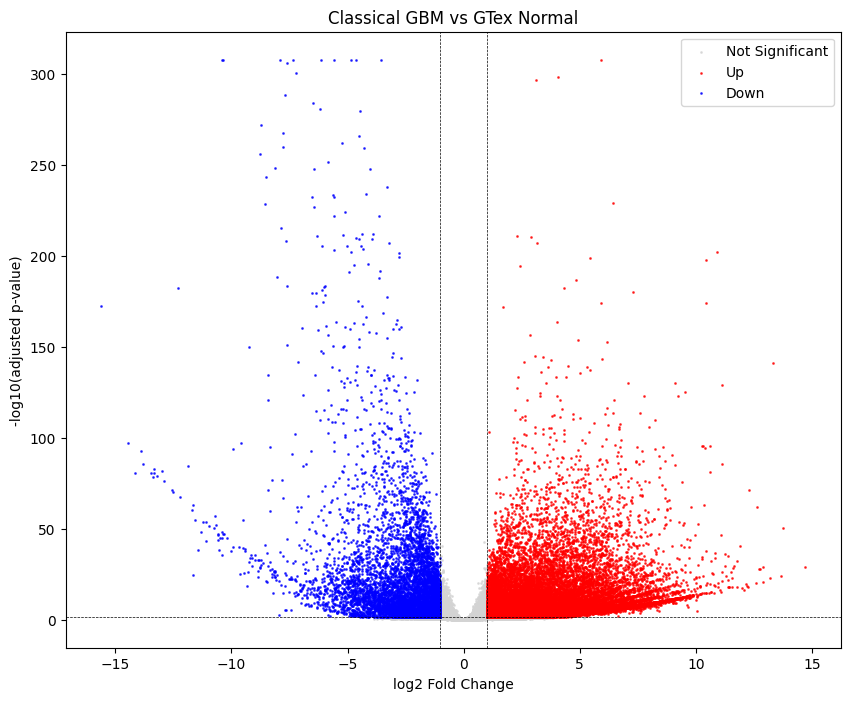
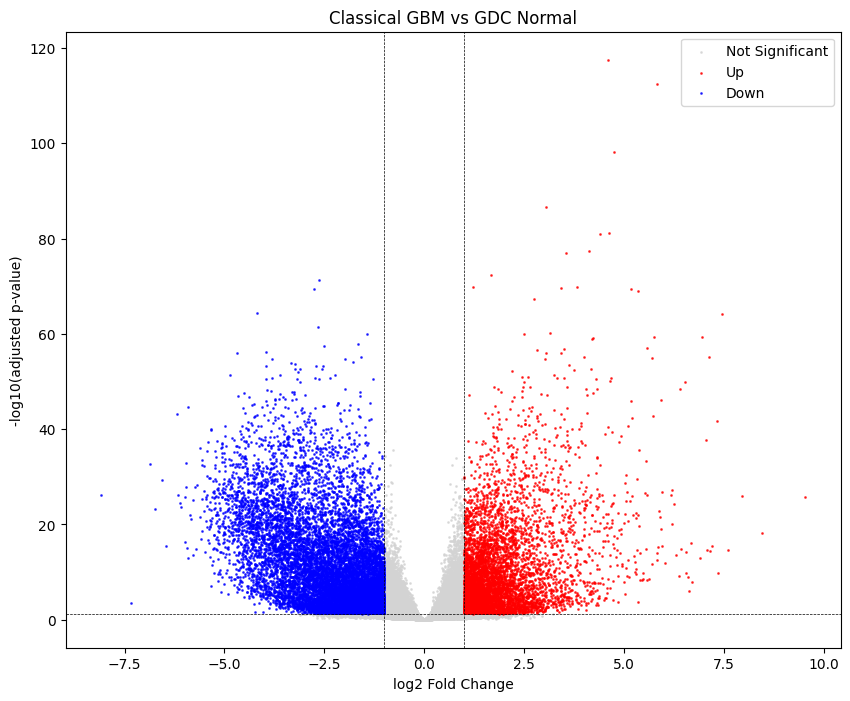
change color palette

diff --git a/index.html b/index.html
@@ -354,6 +354,44 @@
 
                 </div>
 
+                <!-- Description -->
+
+                <div class="experience-description">
+
+                    <p>
+                        Computational analysis of large-scale brain cancer (glioblastoma) transcriptomic
+                        data using Python, statistical methods, and reproducible data-analysis
+                        workflows. Currently investigating into associations between programmed cell deaths and 
+                        OXPHOS complexes in glioblastoma
+                    </p>
+
+                    <p>
+                        My work involves processing and standardizing large-scale
+                        gene-expression datasets, differential expression analysis,
+                        and downstream pathway and protein-interaction analysis.
+                        I prioritize a modular Python workflow to make the analysis
+                        reproducible and allow different datasets and analysis
+                        methods to be integrated more easily.
+                    </p>
+
+                    <p class="experience-stats">
+                        <b>99 CPTAC GBM samples</b> ·
+                        <b>10 GTEx controls</b> ·
+                        <b>55,000+ genes</b> ·
+                        <b>28,000+ significant DEGs</b>
+                    </p>
+
+                    <p>
+                        <a
+                            href="https://github.com/namtu06/BIO_RA"
+                            class="project-link"
+                        >
+                            Research Project GitHub repo
+                        </a>
+                    </p>
+
+                </div>
+
                 <!-- Visuals: 6 FIGURE COLLAGE -->
 
                 <div class="experience-collage">
@@ -395,7 +433,7 @@
                     <figure class="collage-network">
 
                         <img
-                            src="images/experience/classical_network.svg"
+                            src="images/experience/classical_network.png"
                             alt="Protein interaction network"
                         >
 
@@ -427,7 +465,7 @@
                     <figure class="collage-heatmap">
 
                         <img
-                            src="images/experience/heatmap.png"
+                            src="images/experience/output.png"
                             alt="Gene expression heatmap"
                         >
 
@@ -473,43 +511,6 @@
 
         </section>
 
-                <!-- Description -->
-
-                <div class="experience-description">
-
-                    <p>
-                        Computational analysis of large-scale brain cancer (glioblastoma) transcriptomic
-                        data using Python, statistical methods, and reproducible data-analysis
-                        workflows. Currently investigating into associations between programmed cell deaths and 
-                        OXPHOS complexes in glioblastoma
-                    </p>
-
-                    <p>
-                        My work involves processing and standardizing large-scale
-                        gene-expression datasets, differential expression analysis,
-                        and downstream pathway and protein-interaction analysis.
-                        I prioritize a modular Python workflow to make the analysis
-                        reproducible and allow different datasets and analysis
-                        methods to be integrated more easily.
-                    </p>
-
-                    <p class="experience-stats">
-                        <b>99 CPTAC GBM samples</b> ·
-                        <b>10 GTEx controls</b> ·
-                        <b>55,000+ genes</b> ·
-                        <b>28,000+ significant DEGs</b>
-                    </p>
-
-                    <p>
-                        <a
-                            href="https://github.com/namtu06/BIO_RA"
-                            class="project-link"
-                        >
-                            Research Project GitHub repo
-                        </a>
-                    </p>
-
-                </div>
         <!-- PROJECTS -->
 
         <section id="projects" class="section projects-section">

diff --git a/style.css b/style.css
@@ -3,14 +3,15 @@
 ======================================== */
 
 :root {
-    --bg: #202321;
-    --text: #EAE5D9;
-    --accent: #B49A65;
-    --muted: #A5AAA1;
-    --muted-subtle: #788078;
-    --border: #414742;
-    --surface: #292E2A;
-    --surface-hover: #343A35;
+    --bg: #1c1c1d;
+    --text: #e6e6e6;
+    --accent: #2698ba;
+    --hover-text: #ffffff;
+    --muted: #b8b5b5;
+    --muted-subtle: #828282;
+    --border: #424246;
+    --surface: #212529;
+    --surface-hover: #2698ba;
 }
 
 
@@ -152,8 +153,8 @@ h1 {
 
 .links a:hover,
 .project-link:hover {
-    color: var(--muted);
-    border-color: var(--muted);
+    color: var(--hover-text);
+    border-color: var(--accent);
 }
 
 
@@ -338,7 +339,12 @@ h2 {
 ======================================== */
 
 .experience-item {
-    padding: 10px 0 0;
+    padding: 10px 0 35px;
+}
+
+.experience-item + .experience-item {
+    border-top: 1px solid var(--border);
+    padding-top: 35px;
 }
 
 
@@ -351,7 +357,7 @@ h2 {
 
     gap: 30px;
 
-    margin-bottom: 20px;
+    margin-bottom: 25px;
 }
 
 
@@ -385,7 +391,7 @@ h2 {
 
 .copy-section-link:hover {
     background: var(--surface-hover);
-    color: var(--muted);
+    color: var(--hover-text);
     transform: scale(1.1);
 }
 
@@ -434,6 +440,7 @@ h2 {
 
 
 .experience-description p {
+    margin-top: 0;
     margin-bottom: 18px;
 }
 
